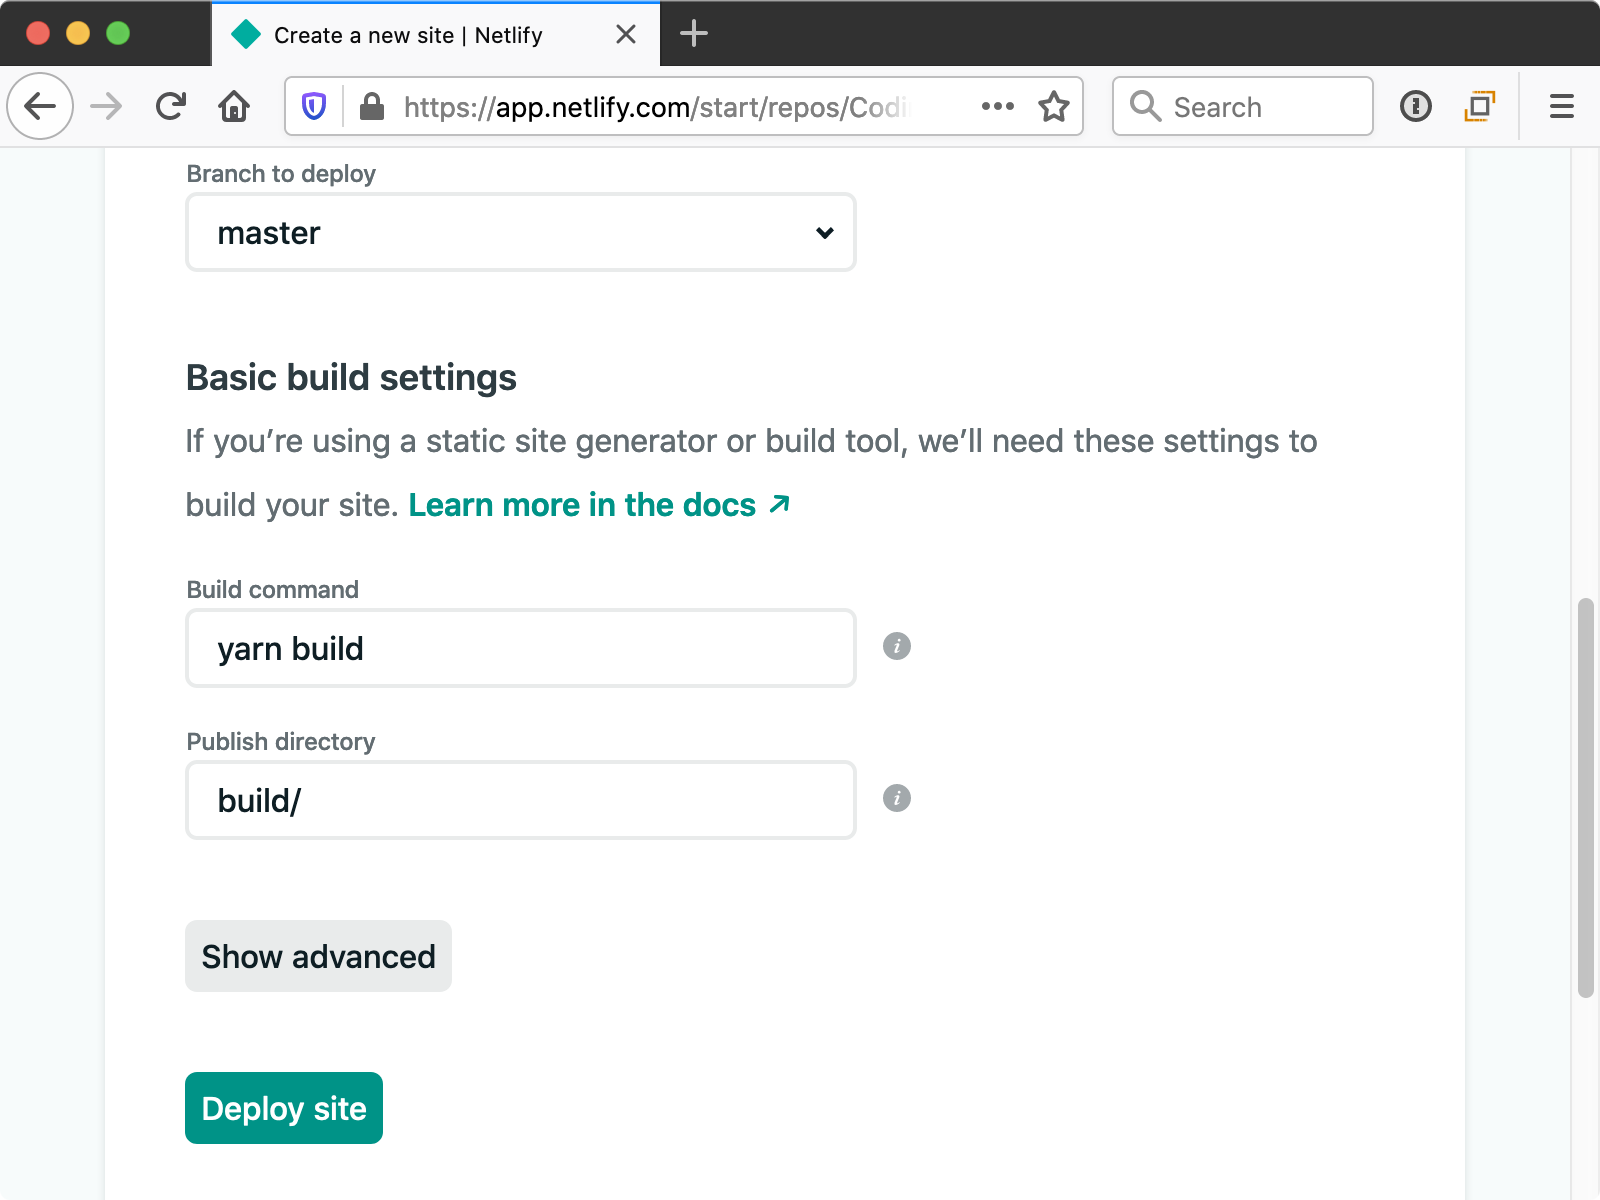
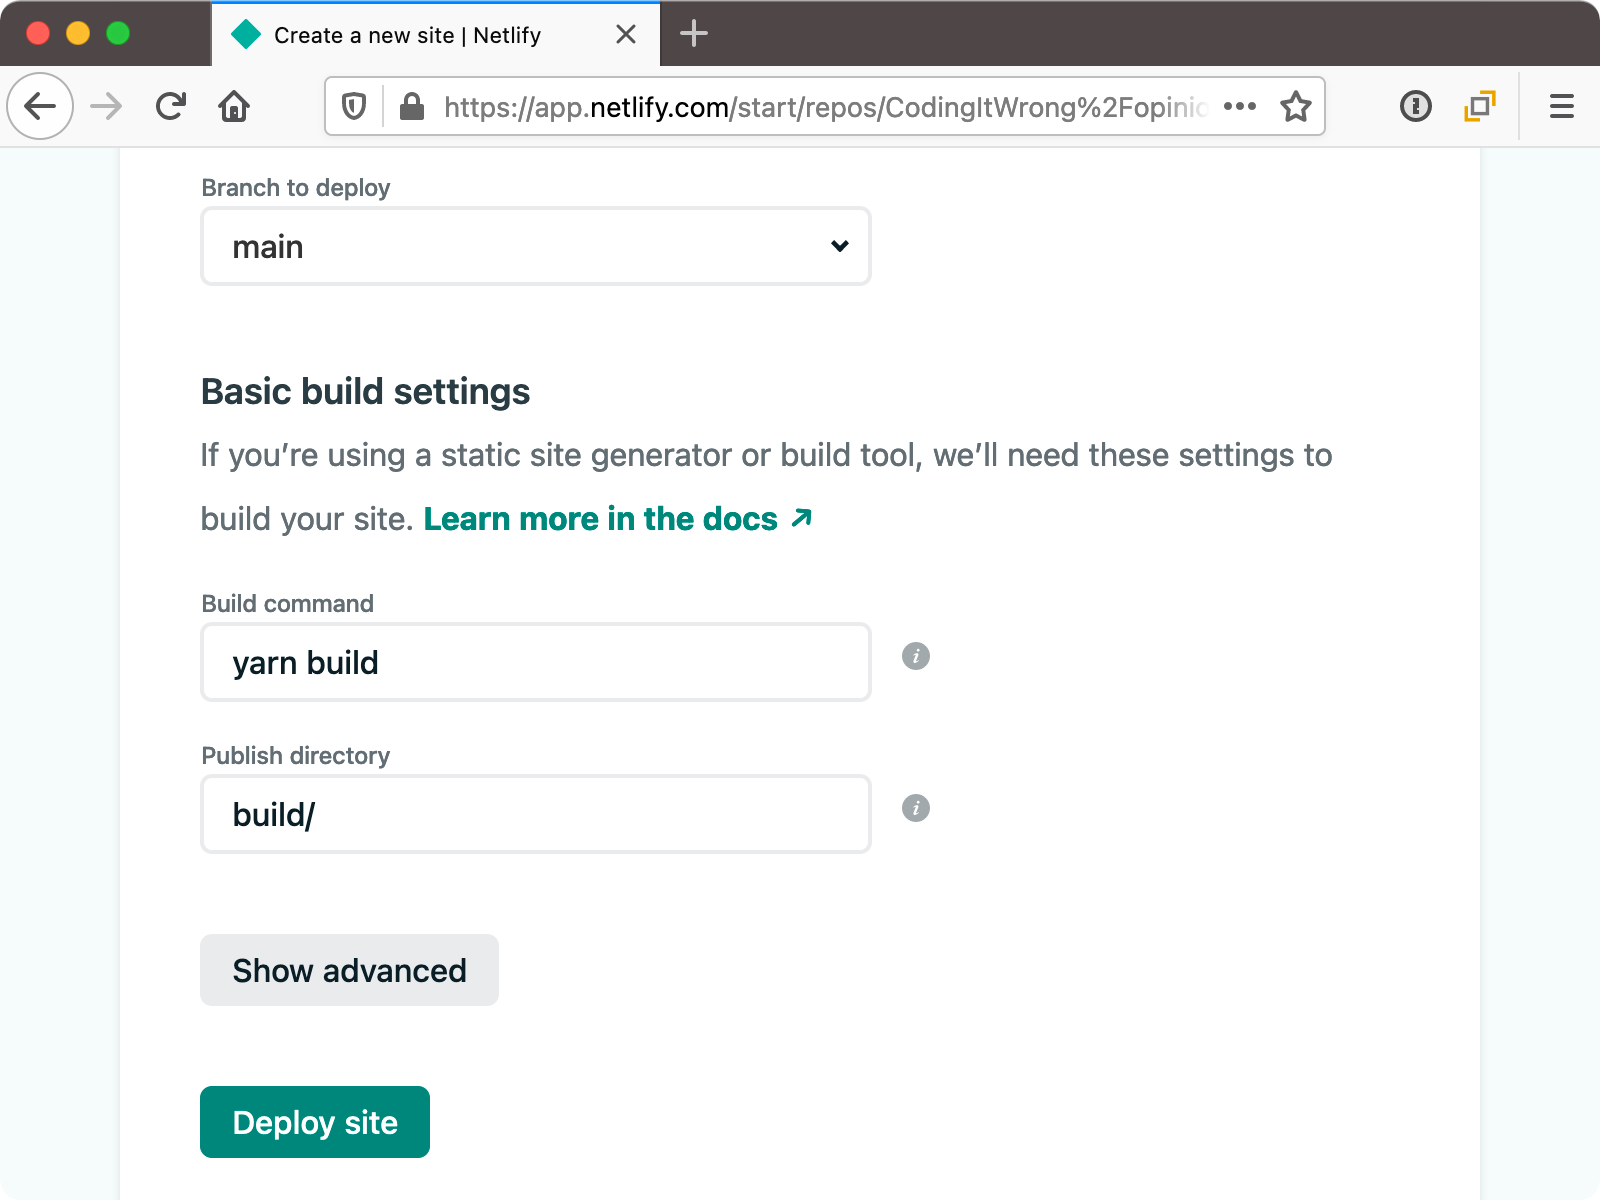
Update screenshots and branch names

diff --git a/docs/vue/2-project-setup.md b/docs/vue/2-project-setup.md
@@ -201,7 +201,7 @@ Next, add it as the `origin` remote and push up the repo:
 
 ```sh
 $ git remote add origin https://github.com/your-user-name/your-repo-name.git
-$ git push --set-upstream origin master
+$ git push --set-upstream origin main
 ```
 
 In many development approaches, the next thing we would do would be to start building application functionality. After that, we might release to production. Later we might decide to try to add testing and continuous integration.
@@ -239,7 +239,7 @@ jobs:
 Here's what's going on in this file:
 
 - We name the workflow "Test".
-- We configure it to run any time code is pushed to the server. This means both PR branches and merges to the `master` branch will be tested.
+- We configure it to run any time code is pushed to the server. This means both PR branches and merges to the `main` branch will be tested.
 - We configure a single job for the workflow, also named "Test".
 - We configure it to run on a specific version of the Ubuntu distribution of Linux. You can also run on `ubuntu-latest`, but new versions of Ubuntu have broken Cypress in the past, so fixing the version ensures it will continue to keep working.
 - Now, we define the series of steps to run for the job. First, we use the GitHub Action `actions/checkout` to check out our code.
@@ -271,10 +271,10 @@ When the test run succeeds, the action will be marked as passed. If you go back 
 
 Go ahead and click "Merge pull request", then "Confirm merge", then "Delete branch".
 
-In your local project, switch back to `master` and pull down the latest changes that we merged in from the branch:
+In your local project, switch back to `main` and pull down the latest changes that we merged in from the branch:
 
 ```sh
-$ git checkout master
+$ git checkout main
 $ git pull
 ```
 
@@ -295,21 +295,21 @@ Once you're signed in, click "New site from Git". Click the "GitHub" button. A l
 
 ![Choosing repo for a new site in Netlify](./images/1-7-searching-for-site.png)
 
-Leave "Branch to deploy" as `master`. Under "Basic build settings", for the "Build command", enter `yarn build` just like we ran locally. Then enter `dist` for the Publish directory. This means that Netlify will run that command, then take the files in that directory and deploy them.
+Leave "Branch to deploy" as `main`. Under "Basic build settings", you should see "Build command" pre-populated with `yarn build`, and `dist/` for the "Publish directory". Netlify has automatically detected that we're using Vue CLI and entered the settings for us. This means that Netlify will run that command, then take the files in that directory and deploy them.
 
 ![Configuring Netlify build settings](./images/1-8-build-settings.png)
 
 That's all we need to configure, so click "Deploy site".
 
-You will be sent to the Overview page for your new site. In yellow you'll see "Site deploy in progress".
+You will be sent to the Site Overview page for your new site. In orange you'll see "Site deploy in progress".
 
 ![Netlify deploy in progress](./images/1-9-deploy-in-progress.png)
 
-Click "Site deploy in progress" and you'll be taken to the Deploys page. In a list at the bottom you'll see "Production: master@HEAD Building":
+Click "Site deploy in progress" and you'll be taken to the Deploys page. In a list at the bottom you'll see "Production: main@HEAD Building":
 
 ![Netlify list of deployments](./images/1-10-deploy-list.png)
 
-Click "Production: master@HEAD Building". You'll see a console log of output as the site is being built. Eventually you'll see "Site is live":
+Click "Production: main@HEAD Building". You'll see a console log of output as the site is being built. Eventually you'll see "Site is live":
 
 ![Netlify site is live](./images/1-11-site-is-live.png)
 
@@ -319,9 +319,9 @@ Click "< Deploys" to go back to the Deploys tab. If you waited for the deploymen
 
 ![Netlify site automatically assigned name](./images/1-12-site-name.png)
 
-Click the green link in your browser. You should get the "Welcome to your Vue.js App" page.
+Click the green link in your browser. You should get the "Welcome to Your Vue.js App" page.
 
-Now let's rename that site to be a bit easier to remember. Go back to Netlify, then click the "Overview" tab, then "Site settings" button. Under "General" > "Site details" > "Site information", click "Change site name".
+Now let's rename that site to be a bit easier to remember. Go back to Netlify, then click the "Site Overview" tab, then "Site settings" button. Under "General" > "Site details" > "Site information", click "Change site name".
 ![Change Site Name button](./images/1-13-change-site-name-button.png)
 
 In the dialog that appears, enter any site name you like and click Save.

diff --git a/docs/react/2-project-setup.md b/docs/react/2-project-setup.md
@@ -350,7 +350,7 @@ jobs:
 Here's what's going on in this file:
 
 - We name the workflow "Test".
-- We configure it to run any time code is pushed to the server. This means both PR branches and merges to the `master` branch will be tested.
+- We configure it to run any time code is pushed to the server. This means both PR branches and merges to the `main` branch will be tested.
 - We configure a single job for the workflow, also named "Test".
 - We configure it to run on a specific version of the Ubuntu distribution of Linux. You can also run on `ubuntu-latest`, but new versions of Ubuntu have broken Cypress in the past, so fixing the version ensures it will continue to keep working.
 - Now, we define the series of steps to run for the job. First, we use the GitHub Action `actions/checkout` to check out our code.
@@ -382,10 +382,10 @@ When the test run succeeds, the action will be marked as passed. If you go back 
 
 Go ahead and click "Merge pull request", then "Confirm merge", then "Delete branch".
 
-In your local project, switch back to `master` and pull down the latest changes that we merged in from the branch:
+In your local project, switch back to `main` and pull down the latest changes that we merged in from the branch:
 
 ```sh
-$ git checkout master
+$ git checkout main
 $ git pull
 ```
 
@@ -402,21 +402,25 @@ There are many ways to deploy frontend apps. One easy way is a service like Netl
 
 Create a Netlify account from [Netlify's Sign Up page](https://app.netlify.com/signup). Since we will need to give it access to GitHub anyway, it might make sense to sign up with your GitHub account.
 
-Once you're signed in, click "New site from Git". Click the "GitHub" button. A list of all your repos will appear. Search for your repo and click it. Leave "Branch to deploy" as `master`. Under "Basic build settings", you should see "Build command" pre-populated with `yarn build`, and `build/` for the "Publish directory". Netlify has automatically detected that we're using Create React App and entered the settings for us. This means that Netlify will run that command, then take the files in that directory and deploy them.
+Once you're signed in, click "New site from Git". Click the "GitHub" button. A list of all your repos will appear. Search for your repo and click it.
+
+![Choosing repo for a new site in Netlify](./images/1-7-searching-for-site.png)
+
+Leave "Branch to deploy" as `main`. Under "Basic build settings", you should see "Build command" pre-populated with `yarn build`, and `build/` for the "Publish directory". Netlify has automatically detected that we're using Create React App and entered the settings for us. This means that Netlify will run that command, then take the files in that directory and deploy them.
 
 ![Configuring Netlify build settings](./images/1-8-build-settings.png)
 
 That's all we need to configure, so click "Deploy site".
 
-You will be sent to the Overview page for your new site. In yellow you'll see "Site deploy in progress".
+You will be sent to the Site Overview page for your new site. In orange you'll see "Site deploy in progress".
 
 ![Netlify deploy in progress](./images/1-9-deploy-in-progress.png)
 
-Click "Site deploy in progress" and you'll be taken to the Deploys page. In a list at the bottom you'll see "Production: master@HEAD Building":
+Click "Site deploy in progress" and you'll be taken to the Deploys page. In a list at the bottom you'll see "Production: main@HEAD Building":
 
 ![Netlify list of deployments](./images/1-10-deploy-list.png)
 
-Click "Production: master@HEAD Building". You'll see a console log of output as the site is being built. Eventually you'll see "Site is live":
+Click "Production: main@HEAD Building". You'll see a console log of output as the site is being built. Eventually you'll see "Site is live":
 
 ![Netlify site is live](./images/1-11-site-is-live.png)
 

diff --git a/docs/vue/3-vertical-slice.md b/docs/vue/3-vertical-slice.md
@@ -1117,10 +1117,10 @@ Now Netlify should automatically be deploying the updated version of our site. G
 
 Now we can drag our story to "Done" in Trello: "List Restaurants".
 
-Then, locally, switch back to the `master` branch and pull in the the changes that have been merged in from the branch:
+Then, locally, switch back to the `main` branch and pull in the the changes that have been merged in from the branch:
 
 ```sh
-$ git checkout master
+$ git checkout main
 $ git pull
 ```
 

diff --git a/docs/react/3-vertical-slice.md b/docs/react/3-vertical-slice.md
@@ -998,10 +998,10 @@ Now Netlify should automatically be deploying the updated version of our site. G
 
 Now we can drag our story to "Done" in Trello: "List Restaurants".
 
-Then, locally, switch back to the `master` branch and pull in the the changes that have been merged in from the branch:
+Then, locally, switch back to the `main` branch and pull in the the changes that have been merged in from the branch:
 
 ```sh
-$ git checkout master
+$ git checkout main
 $ git pull
 ```
 
